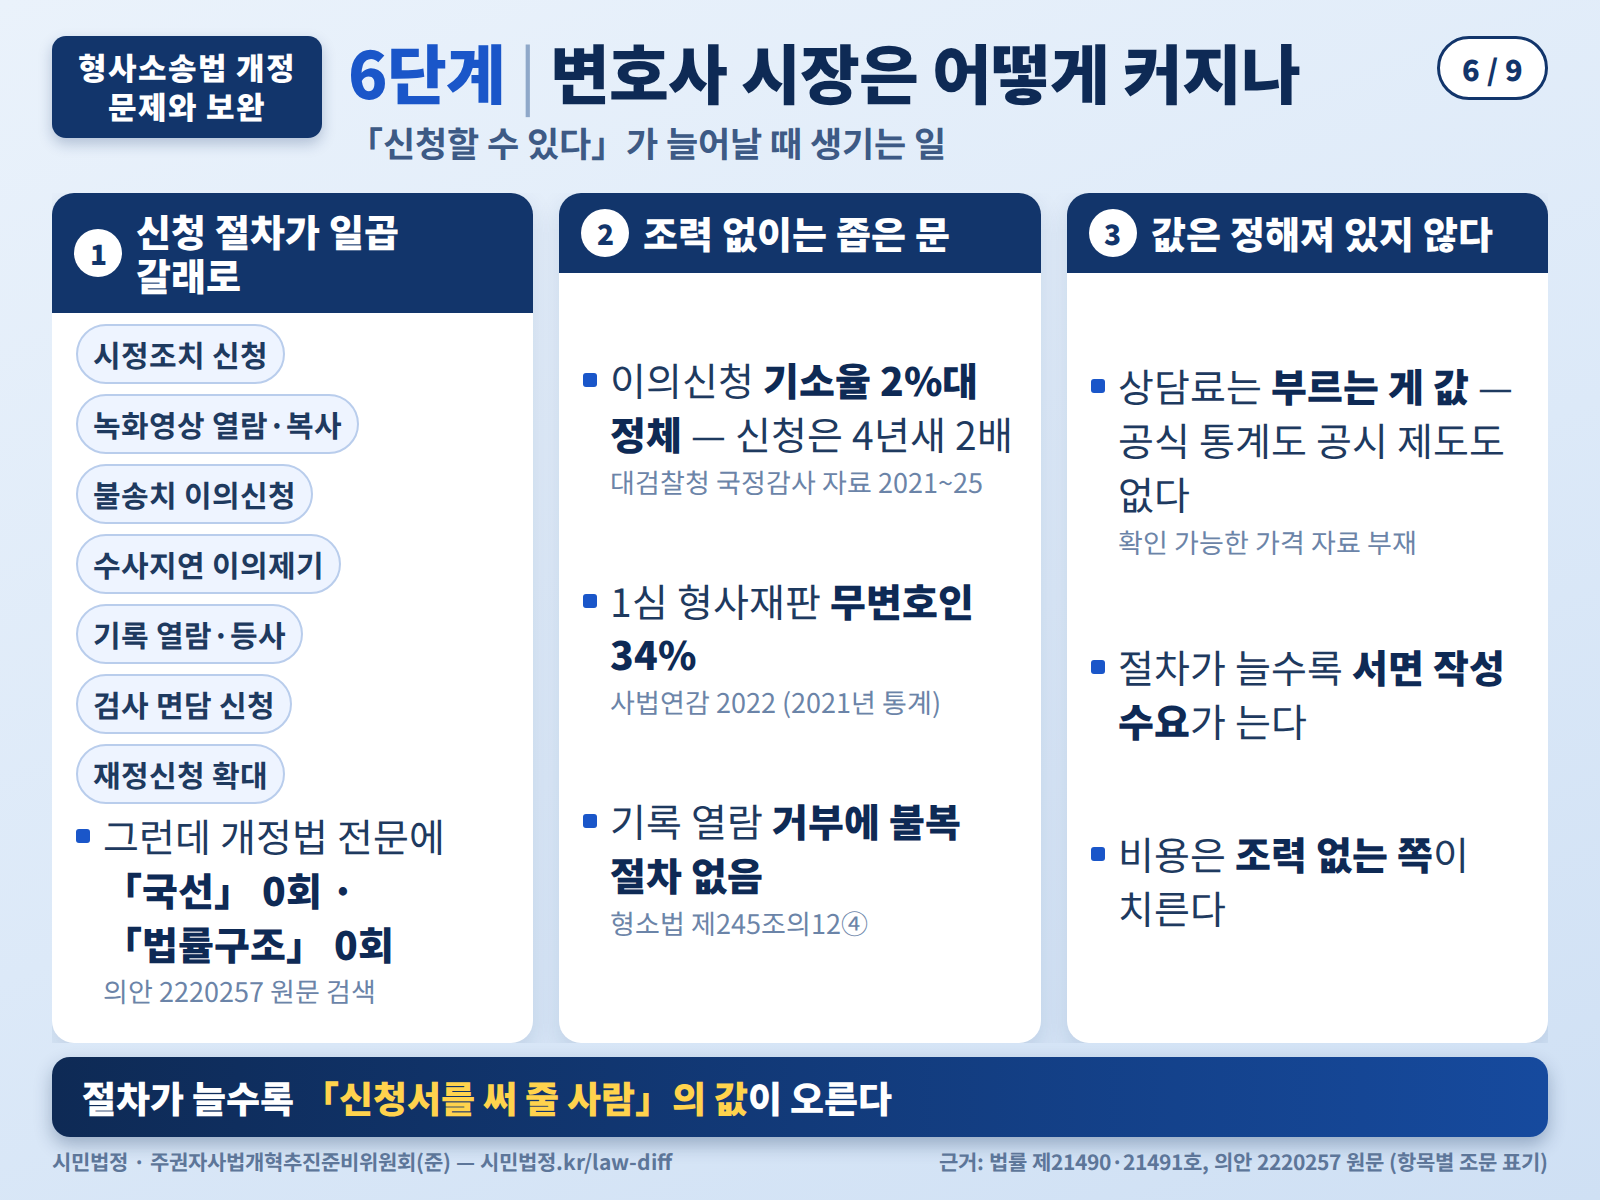
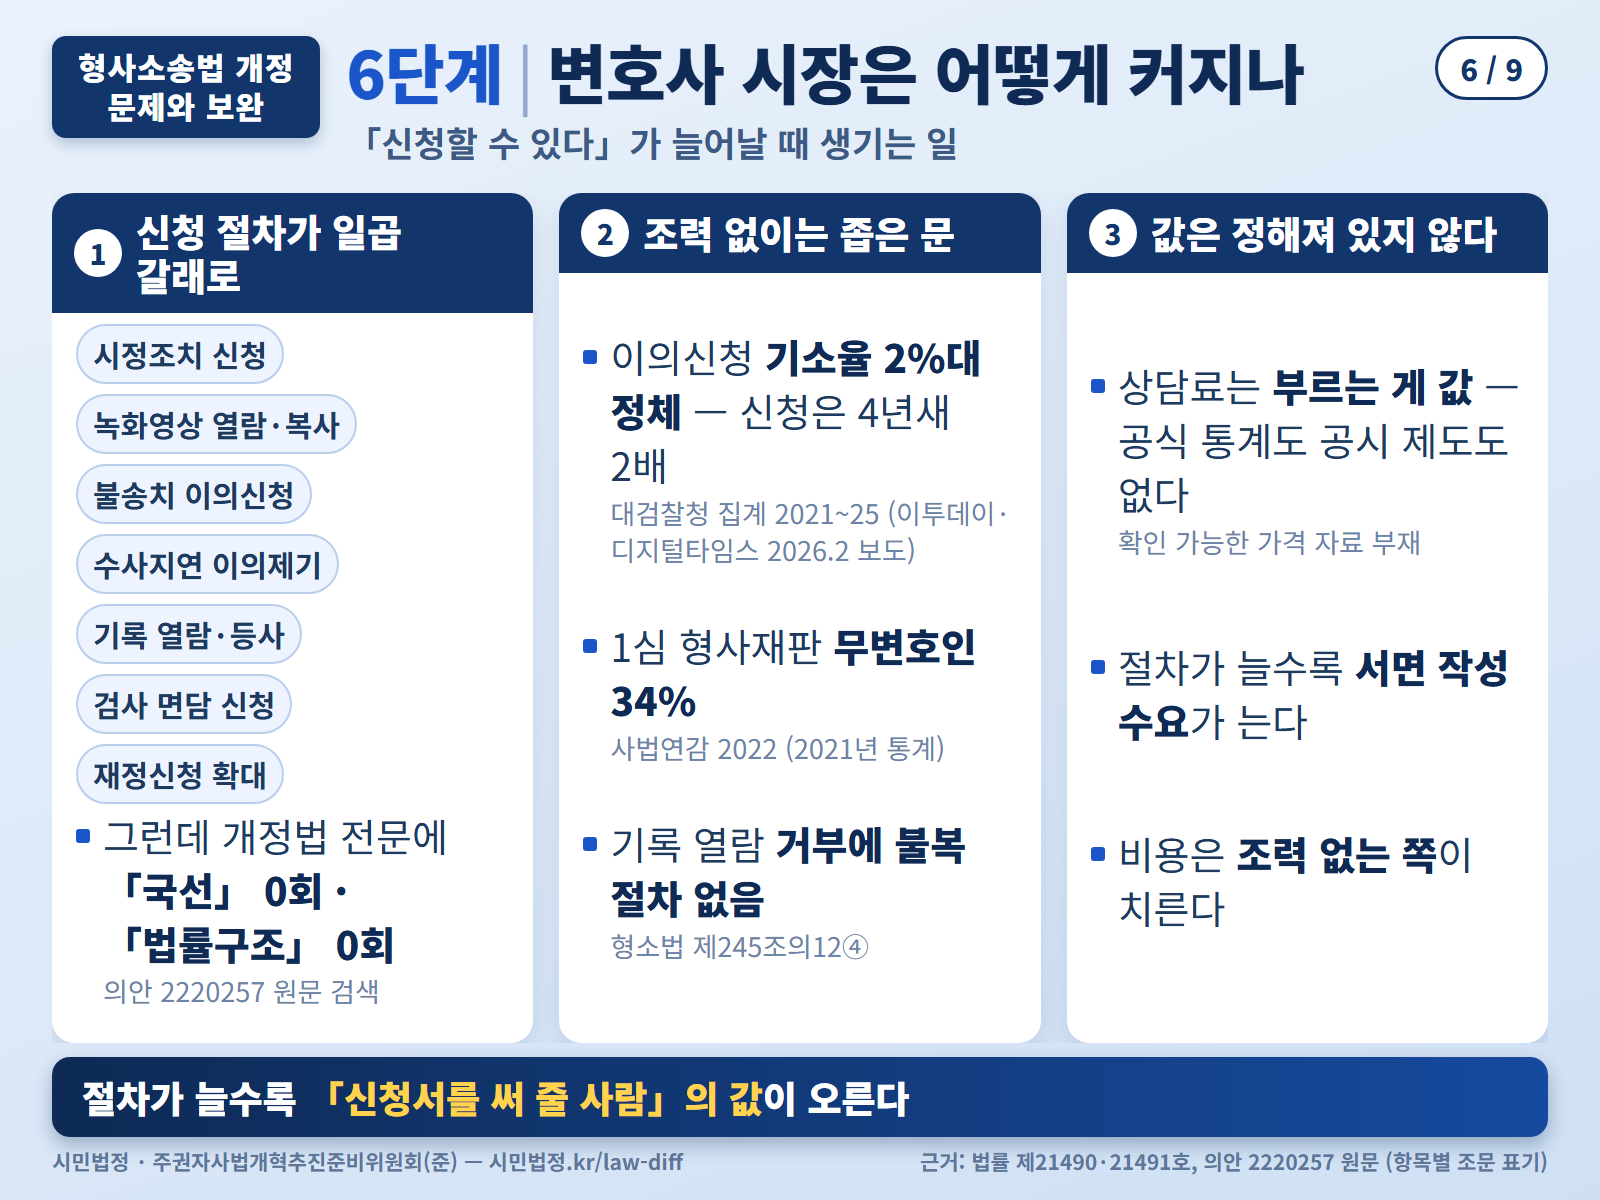
이의신청 통계: 기사 원문 3건으로 확인, 출처 「국정감사 자료」→「대검찰청 집계」 정정
- 이투데이 2026-02-04(박일경 단독)·디지털타임스 2026-02-16(박양수)·
  한국NGO신문 2026-02-16(장영수) 본문에서 2021~25 송치·기소·보완수사요구
  수치 전부 일치 확인. 세 기사 모두 「대검찰청 집계」로만 적고 국정감사·
  의원실 언급 없음 — 검색 요약을 옮겨 적으며 생긴 표기였음
- 칼럼 본문 출처 줄, 각주 ⑧(원문 URL 병기)·⑧-1(정정 기록) 고쳐 씀
- 카드뉴스 6단계 출처 표기 정정 후 재렌더 (게시 보류 사유 해소)
- 생성기: Windows 에서 깨지던 경로(URL.pathname → fileURLToPath,
  폰트 file:// URL → pathToFileURL) 고쳐 로컬에서도 렌더 가능

Claude-Session: https://claude.ai/code/session_01Y2gJbpMt1TuYJ3TdJRNmym

diff --git a/docs/blog-drafts/신청할-수-있다는-말의-값.md b/docs/blog-drafts/신청할-수-있다는-말의-값.md
@@ -56,7 +56,7 @@
 | 2024 | 47,386건 | 1,086건 | 2.3% |
 | 2025 | 53,406건 | 1,130건 | 2.1% |
 
-> 대검찰청이 국회에 제출한 국정감사 자료. 기소율은 두 수치로 계산했다.
+> 대검찰청 집계 「경찰의 불송치 결정에 대한 이의신청 현황」(2026년 2월 언론 보도⑧). 기소율은 두 수치로 계산했다.
 
 **접수는 4년 만에 두 배 이상 늘었다. 그런데 기소율은 2% 언저리에서 한 발짝도 움직이지 않았다.** 오히려 최근으로 올수록 조금씩 내려간다.
 
@@ -322,9 +322,9 @@
 
 *⑦-1 **제245조의12 제6항 인용 재검토(2026-08-31)** — 대안 원문을 항 단위로 다시 대조함. ③항이 「사용목적을 제한하거나 … 조건을 붙일 수 있다」로 제한·조건의 **부과 근거**이고, ④항은 「허가하지 아니하거나 사용 목적의 제한 또는 조건을 붙여 허가하는 경우 … 이유를 통지」하는 **통지 조항**임. ⑥항이 「제4항에 따른 사용목적의 제한」이라 한 것은 부과 근거(③)가 아닌 통지 조항(④)을 가리킨 것이어서 **문언상 어긋나 보이나**, ④항에도 「제한 또는 조건을 붙여 허가하는 경우」라는 문언이 있어 해석이 불가능한 정도는 아님. 결론은 유지 — **공포문(법률 번호 미확인)에서 자구가 정리됐는지 확인한 뒤 본문 인용을 확정할 것.** 법제사법위원회 체계·자구 심사나 공포 단계에서 고쳐졌을 수 있음.*
 
-*⑧ **「하나」 절의 이의신청 송치·기소 표 — 출처 확인 완료(2026-08-08).** 원 통계는 **대검찰청이 국회에 제출한 국정감사 자료**다. 앞서 미확인으로 남겨 두었던 두 가지가 해소됐다. 첫째, 출처 기관이 대검찰청임을 디지털타임스·한국NGO신문 보도가 명시한다. 둘째, 2021년·2025년이 2022~2024년과 다른 계열이 아닌지 의심했으나 **동일 계열이다** — 2024년 10월 보도(이투데이)와 최근 보도(디지털타임스)가 겹치는 2021년에서 송치 25,048건·기소 528건으로 값이 일치한다. 연도별 확인 보도는 2021~2023년 이투데이, 2024년 문화일보, 2025년 디지털타임스·한국NGO신문. 보완수사 요구 건수(2021년 7,508건 → 2025년 17,122건)도 같은 자료에서 나온 것이다. 기소율(2.1~2.7%)은 송치·기소 두 수치로 계산한 값이다.*
+*⑧ **「하나」 절의 이의신청 송치·기소 표 — 기사 원문으로 확인 완료(2026-09-02, 데스크탑).** 다음 세 기사의 본문을 직접 열어 대조했고, 표의 5개년 송치·기소 수치와 보완수사 요구 건수(2021년 7,508건 → 2022년 10,113건 → 2023년 10,992건 → 2024년 14,767건 → 2025년 17,122건)가 **전부 일치**한다. ⑴ 이투데이 2026-02-04 박일경, 「[단독] 경찰 무혐의 처리에 이의신청 年 5만건 넘어 [멈춰선 검찰 수사 ①]」 — https://www.etoday.co.kr/news/view/2550483 — 「본지가 대검찰청으로부터 제출받은 최근 5년간 '경찰의 불송치 결정에 대한 이의신청 현황'」. ⑵ 디지털타임스 2026-02-16 박양수, 「[속보] '경찰은 불송치', 검찰 보완수사로 뒤집힌 사건 2배로 늘었다…수사권 조정 후 증가세」 — https://www.dt.co.kr/article/12046952 — 「대검찰청 집계에 따르면」. ⑶ 한국NGO신문 2026-02-16 장영수, 「"경찰 수사에 문제있다" 이의신청 연 5만건…보완수사 기소 4년새 두배」 — https://www.ngonews.kr/news/articleView.html?idxno=224499 — 「대검찰청 집계에 따르면」. 기소율(2.1~2.7%)은 송치·기소 두 수치로 계산한 값이다.*
 
-*⑧-1 **다만 확인의 한계를 적어 둔다.** 위 대조는 검색 결과 요약을 통해 이뤄졌고 언론사 원문에는 직접 접근하지 못했다(작업 환경의 외부 접속 제한). 또한 자료를 제출받은 국회의원실이 어디인지는 확인하지 못했다. **게시 전 데스크탑 환경에서 기사 원문을 한 번 열어 수치와 출처 표기를 재확인할 것.***
+*⑧-1 **정정(2026-09-02).** 이 각주는 원래 출처를 「대검찰청이 국회에 제출한 국정감사 자료」라고 적었으나, 세 기사 원문 어디에도 「국정감사」나 「의원실」이라는 말이 없다 — 이투데이는 자사가 대검에서 직접 받은 자료라 하고, 나머지 둘은 「대검찰청 집계」로만 적는다. 「국정감사」는 검색 요약을 옮겨 적으며 생긴 표기였다(CLAUDE.md 2026-08-31 규칙의 사례). 본문 출처 줄과 카드뉴스 6단계 출처 표기를 「대검찰청 집계」로 고쳤다. 대검이 자료를 공개한 경위(보도자료인지 개별 제공인지)는 확인하지 못했다.*
 
 *⑨ 경찰수사규칙 별지 제125호 「불송치 결정 이의신청서」는 국가법령정보센터에서 서식 원본을 확인함*
 
